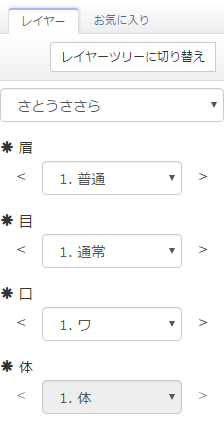
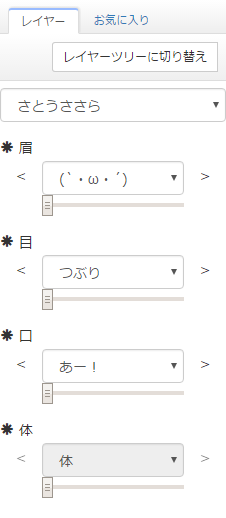
add slider to the faview

diff --git a/js/favorite.ts b/js/favorite.ts
@@ -812,6 +812,7 @@ module Favorite {
       constructor(private favorite: Favorite, private rootSel: HTMLSelectElement, private root: HTMLUListElement) {
          root.addEventListener('click', e => this.click(e), false);
          root.addEventListener('change', e => this.change(e), false);
+         root.addEventListener('input', e => this.input(e), false);
          root.addEventListener('keyup', e => this.keyup(e), false);
          rootSel.addEventListener('change', e => this.change(e), false);
          rootSel.addEventListener('keyup', e => this.keyup(e), false);
@@ -858,6 +859,10 @@ module Favorite {
                         if (opt instanceof HTMLOptionElement && opt.value === item[id].value) {
                            elem.selectedIndex = j;
                            elem.setAttribute('data-lastmod', item[id].lastMod.toString());
+                           let range = elem.parentElement.querySelector('input[type=range]');
+                           if (range instanceof HTMLInputElement) {
+                              range.value = j.toString();
+                           }
                            break;
                         }
                      }
@@ -887,6 +892,10 @@ module Favorite {
 
       private changed(select: HTMLSelectElement): void {
          select.setAttribute('data-lastmod', Date.now().toString());
+         let range = select.parentElement.querySelector('input[type=range]');
+         if (range instanceof HTMLInputElement) {
+            range.value = select.selectedIndex.toString();
+         }
          if (this.onChange) {
             this.onChange(this.favorite.get(select.value));
          }
@@ -909,6 +918,23 @@ module Favorite {
                return;
             }
             this.changed(target);
+         } else if (target instanceof HTMLInputElement && target.type === 'range') {
+            let sel = target.parentElement.querySelector('select');
+            if (sel instanceof HTMLSelectElement) {
+               sel.selectedIndex = parseInt(target.value, 10);
+               this.changed(sel);
+            }
+         }
+      }
+
+      private input(e: Event): void {
+         let target = e.target;
+         if (target instanceof HTMLInputElement && target.type === 'range') {
+            let sel = target.parentElement.querySelector('select');
+            if (sel instanceof HTMLSelectElement) {
+               sel.selectedIndex = parseInt(target.value, 10);
+               this.changed(sel);
+            }
          }
       }
 
@@ -953,9 +979,9 @@ module Favorite {
                switch (cn.type) {
                   case 'item':
                      opt = document.createElement('option');
-                     opt.textContent = (++numItems).toString() + '. ' + cn.text;
+                     opt.textContent = cn.text;
                      opt.value = cn.id;
-                     if (numItems === 1) {
+                     if (++numItems === 1) {
                         firstItemId = cn.id;
                      }
                      sel.appendChild(opt);
@@ -970,6 +996,10 @@ module Favorite {
          }
          // show filtered entry only
          if (numItems > 0 && this.favorite.getFirstFilter(this.favorite.get(firstItemId)) !== '') {
+            let range = document.createElement('input');
+            range.type = 'range';
+            range.max = (numItems - 1).toString();
+            range.value = '0';
             let prev = document.createElement('button');
             prev.className = 'btn btn-default psdtool-faview-prev';
             prev.innerHTML = '&lt;';
@@ -983,10 +1013,12 @@ module Favorite {
             if (numItems === 1) {
                prev.disabled = true;
                sel.disabled = true;
+               range.disabled = true;
                next.disabled = true;
             }
             fs.appendChild(prev);
             fs.appendChild(sel);
+            fs.appendChild(range);
             fs.appendChild(next);
             li.appendChild(fs);
          }

diff --git a/manual.html b/manual.html
@@ -163,7 +163,7 @@
 		</p>
 		<p><img src="img/layertree.png" width="512" height="420" class="psdtool-thumb" alt="レイヤーツリー画面のスクリーンショット"></p>
 		<p>
-			レイヤーツリー画面ではチェックボックスやラジオボタンの切り替えで、シンプルビュー画面ではセレクトボックスによる切り替えによって、画像のレイヤー表示構成を変更することができます。
+			レイヤーツリー画面ではチェックボックスやラジオボタンの切り替えで、シンプルビュー画面ではセレクトボックスやスライダーによる切り替えによって、画像のレイヤー表示構成を変更することができます。
 		</p>
 
 		<h3 id="feature-favview">お気に入り編集画面</h3>
@@ -353,7 +353,7 @@
 
 		<h3 id="feature-faview">シンプルビュー</h3>
 		<p>
-			シンプルビューは<a href="#feature-layer-tree">レイヤーツリー</a>でチェックボックスやラジオボタンを操作する代わりに、セレクトボックスから項目を選んで組み合わせられる画面です。シンプルビューを有効化するためには、<a href="#feature-favview">お気に入り</a>にシンプルビュー用の項目を作成する必要があります。
+			シンプルビューは<a href="#feature-layer-tree">レイヤーツリー</a>でチェックボックスやラジオボタンを操作する代わりに、セレクトボックスやスライダーから項目を選んで組み合わせられる画面です。シンプルビューを有効化するためには、<a href="#feature-favview">お気に入り</a>にシンプルビュー用の項目を作成する必要があります。
 		</p>
 		<h4>シンプルビューを有効化する方法</h4>
 		<p><img src="img/faview.png" width="820" height="600" class="psdtool-thumb" alt="シンプルビューを有効化する方法の解説"></p>
@@ -383,13 +383,13 @@
 				</p>
 			</dd>
 		</dl>
-		<p><img src="img/faview-active.png" width="224" height="431" class="psdtool-thumb" alt="シンプルビューを有効化した時のスクリーンショット"></p>
+		<p><img src="img/faview-active.png" width="226" height="518" class="psdtool-thumb" alt="シンプルビューを有効化した時のスクリーンショット"></p>
 		<p>これが上記サンプルで作成したお気に入りのシンプルビュー表示例です。それぞれの各項目の一番上にあったものがデフォルトの表示項目として表示され、「体」に関してはお気に入りがひとつしか登録されていないためグレーアウトされています。</p>
 		<p>お気に入り内にシンプルビュー用の親フォルダーが複数ある場合、一番上の選択項目で選んで切り替えることができるようになります。</p>
 
 		<h4>使用例</h4>
 		<p>
-			<iframe width="853" height="480" class="embed-responsive-item" src="https://www.youtube-nocookie.com/embed/TGUB712dDQ8?rel=0&amp;showinfo=0" frameborder="0" allowfullscreen></iframe>
+			<iframe width="853" height="480" class="embed-responsive-item" src="https://www.youtube-nocookie.com/embed/F1qPRdpZHd4?rel=0&amp;showinfo=0" frameborder="0" allowfullscreen></iframe>
 		</p>
 		<p>実際にシンプルビュー用のお気に入りデータを作成する例です。お気に入りデータの登録には<a href="#generate-items-from-radios">ラジオグループからお気に入りを自動生成</a>を使用していますが、使用しなくてもデータの作成は可能です。</p>
 
